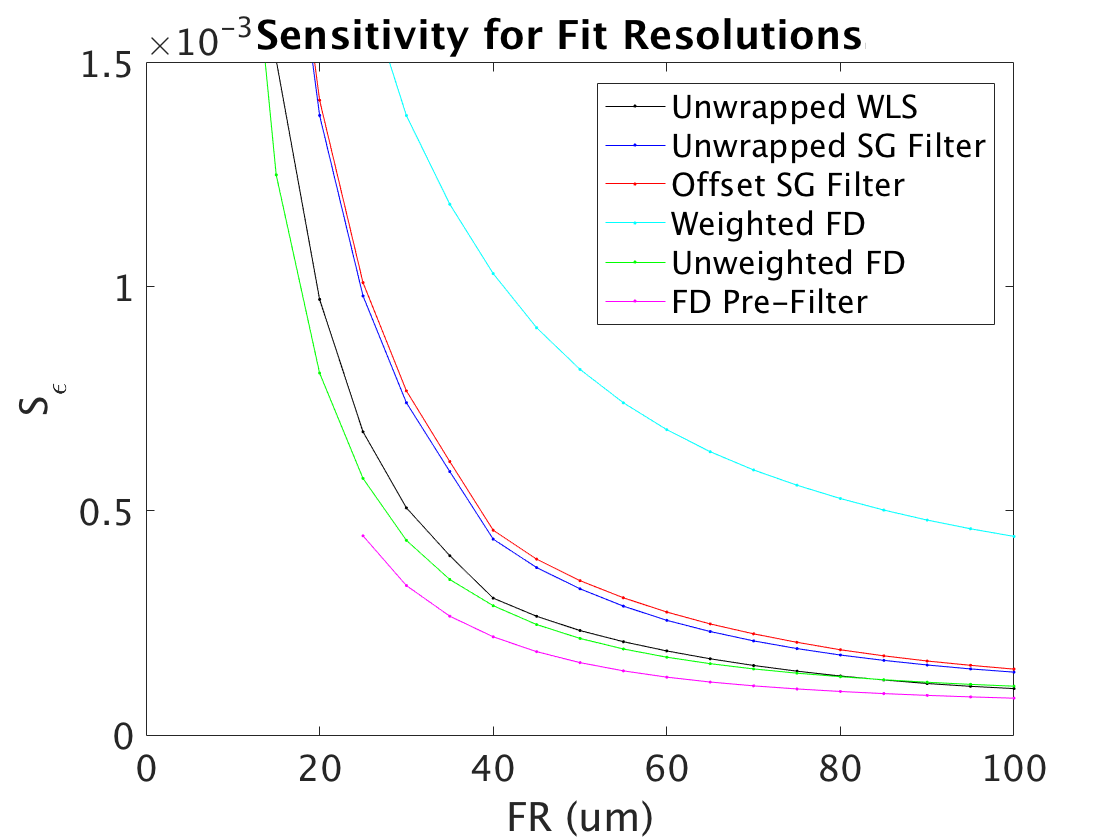
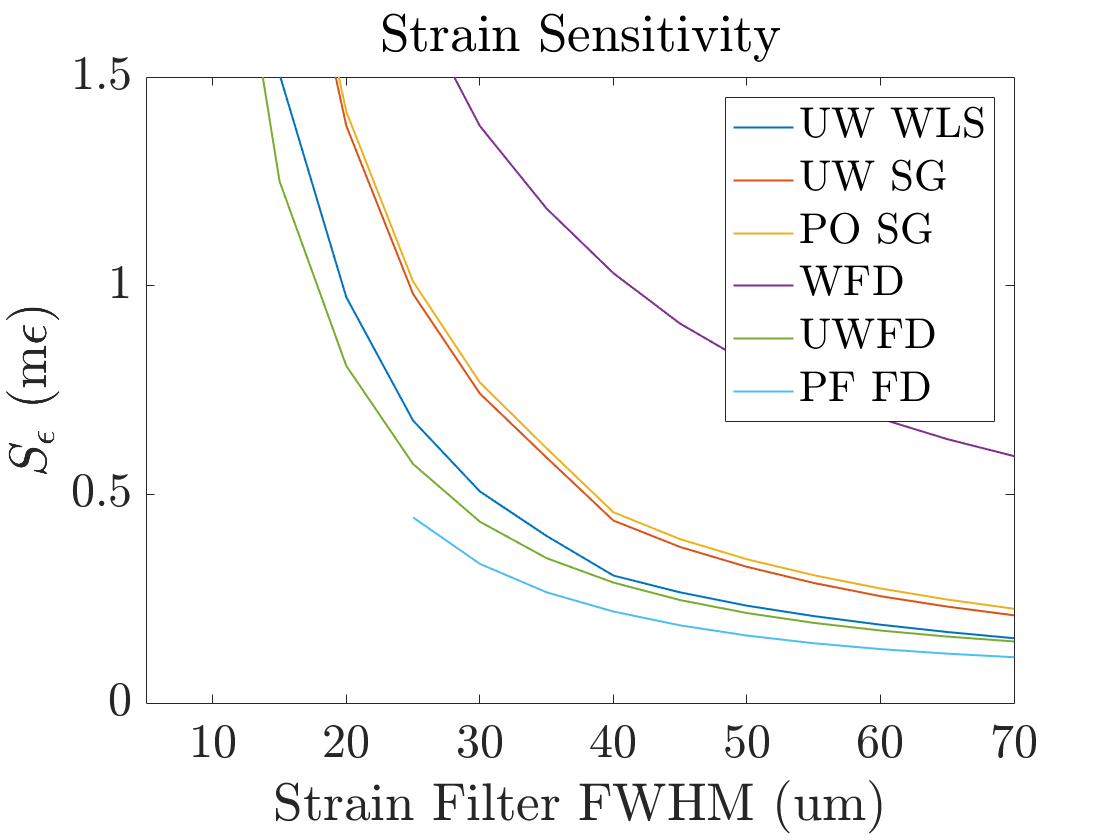
Updated time & sensitivity figures

diff --git a/Results.tex b/Results.tex
@@ -225,7 +225,7 @@ It can be seen that all new strain estimation techniques show a significant impr
 	\centering
     \begin{subfigure}{0.49\textwidth}
     	\centering
-        \includegraphics[width=\textwidth]{figures/sensitivity_lr0.png}
+        \includegraphics[width=\textwidth]{figures/sensitivity_lr0_arrow.png}
     \end{subfigure}
     \begin{subfigure}{0.49\textwidth}
     	\centering
@@ -271,11 +271,11 @@ The addition of lateral smoothing heightens the sensitivity of all imaging techn
 	\centering
     \begin{subfigure}{0.49\textwidth}
     	\centering
-        \includegraphics[width=\textwidth]{figures/sensitivity_FR70.png}
+        \includegraphics[width=\textwidth]{figures/sensitivity_fr70.png}
     \end{subfigure}
     \begin{subfigure}{0.49\textwidth}
     	\centering
-        \includegraphics[width=\textwidth]{figures/sensitivity_FR40.png}
+        \includegraphics[width=\textwidth]{figures/sensitivity_fr40.png}
     \end{subfigure}
     \caption{Strain sensitivity for different lateral smoothing resolutions for a) Fit resolution of $70\mu m$, and b) $40\mu m$.}
     \label{sensitivity_2}	
@@ -309,7 +309,7 @@ The addition of lateral smoothing heightens the sensitivity of all imaging techn
 			\hline
 		\end{tabular}
 	\end{center}
-	\caption{Strain sensitivity values (given in millistrain) for selected fit and lateral resolutions. The six strain estimation techniques are ordered as defined above in \autoref{algorithms}.}
+	\caption{Strain sensitivity values (given in m$\epsilon$) for selected strain filter (SF) FWHM and lateral smoothing filter (LSF) FWHM. The six strain estimation techniques are ordered as defined above in \autoref{algorithms}.}
 	\label{sensitivity_table}
 \end{table}
 
